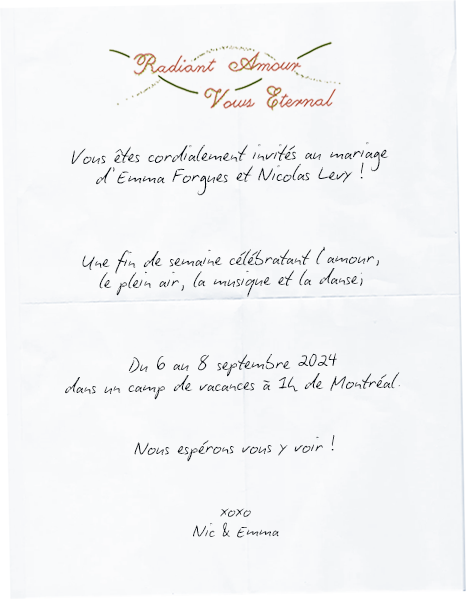
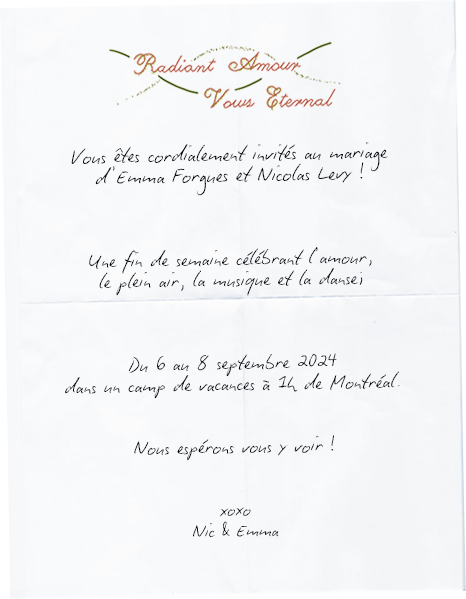
fixed typo in french letter

diff --git a/index-fr.html b/index-fr.html
@@ -95,12 +95,12 @@
     <div class="content-scroll" id="content">
         <section id="intro">
             <img class="letter" src="assets/lettre.png"
-                alt="Vous êtes cordialement invités au mariage d'Emma Forgues et Nicolas Levy ! Une fin de semaine célébratant l'amour, le plein air, la musique et la danse. Du 6 au 8 septembre 2024 dans un camp de vacances à 1h de Montréal. Nous espérons vous y voir ! xoxo - Nic & Emma">
+                alt="Vous êtes cordialement invités au mariage d'Emma Forgues et Nicolas Levy ! Une fin de semaine célébrant l'amour, le plein air, la musique et la danse. Du 6 au 8 septembre 2024 dans un camp de vacances à 1h de Montréal. Nous espérons vous y voir ! xoxo - Nic & Emma">
             <div class="script-letter">
                 <br><br>
                 <p>Vous êtes cordialement invités
                     <br>au mariage d'Emma Forgues et Nicolas Levy !
-                    <br><br>Une fin de semaine célébratant l'amour,
+                    <br><br>Une fin de semaine célébrant l'amour,
                     <br>le plein air, la musique et la danse;
                     <br><br>Du 6 au 8 septembre 2024
                     <br>dans un camp de vacances à 1h de Montréal.
